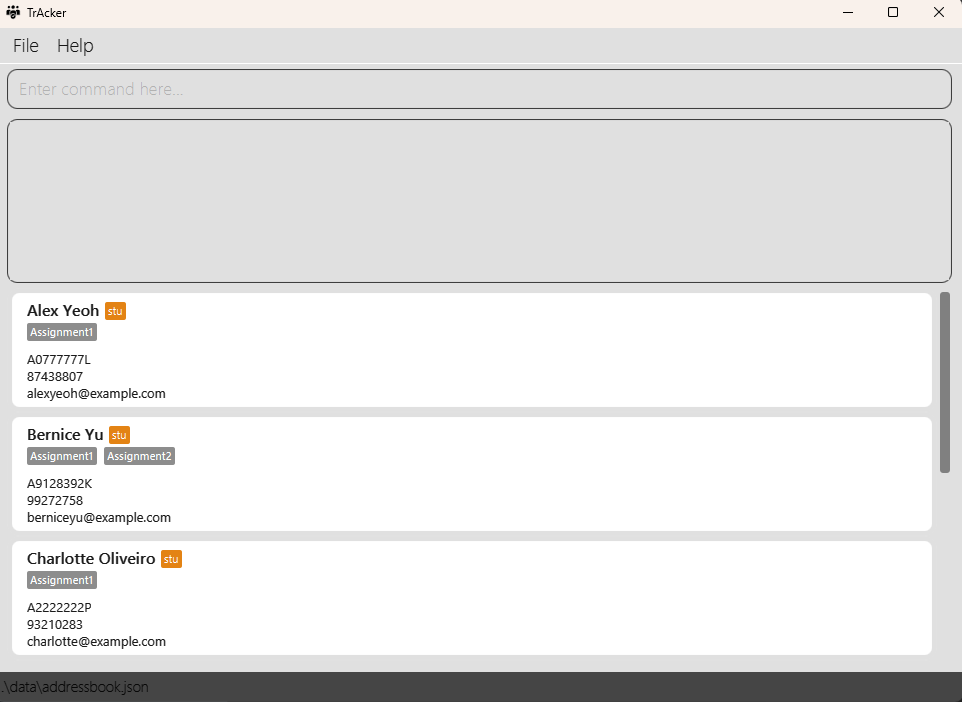
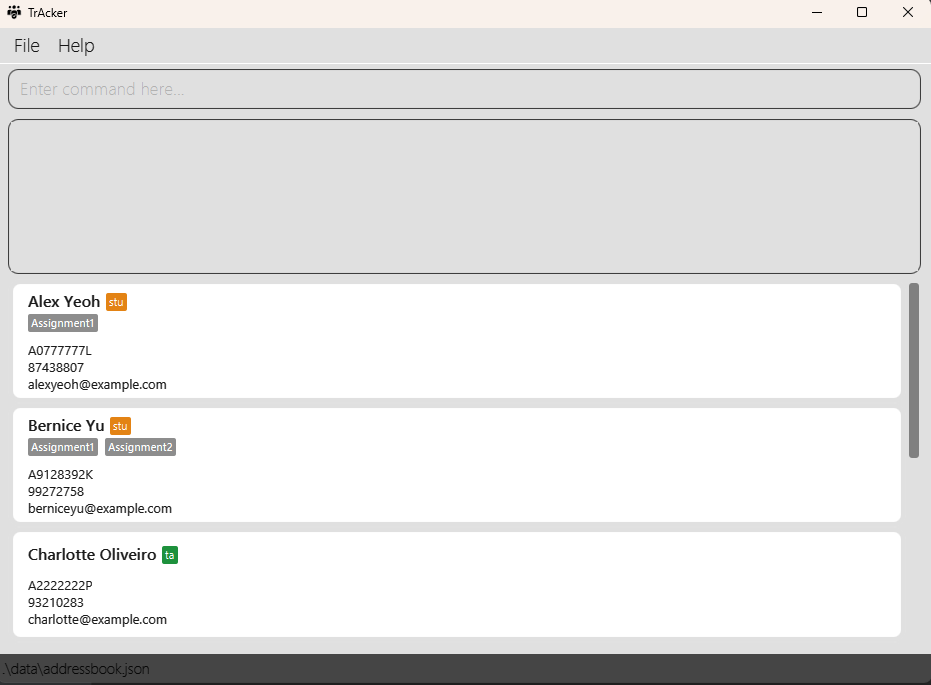
Update UG

diff --git a/docs/UserGuide.md b/docs/UserGuide.md
@@ -3,10 +3,10 @@ layout: page
 title: User Guide
 ---
 
-**TrAcker** is a **desktop app for CS Head Teaching Assistants (TAs) to manage the contact information of TAs and 
-students, optimized for use via a Command Line Interface** (CLI) while still having the benefits of a Graphical User 
-Interface (GUI). If you can type fast, TrAcker can get your contact management tasks done faster than traditional GUI 
-apps.
+**TrAcker** is a handy contact management app built for CS Head Teaching Assistants (TAs) in NUS.
+Optimized for use via a command line interface, you can manage student assignments, attendance,
+tutor availability and much more with just a few keystrokes!
+
 
 * Table of Contents
 {:toc}
@@ -17,30 +17,32 @@ apps.
 
 1. Ensure you have Java `11` or above installed in your Computer.
 
-1. Download the latest `TrAcker.jar` from [here](https://github.com/AY2324S2-CS2103T-T11-4/tp/releases).
+2. Download the latest `TrAcker.jar` from [here](https://github.com/AY2324S2-CS2103T-T11-4/tp/releases).
 
-1. Copy the file to the folder you want to use as the _home folder_ for your **TrAcker** app.
+3. Copy the file to the folder you want to use as the _home folder_ for your **TrAcker** app.
 
-1. Open a command terminal, `cd` into the folder you put the jar file in, and use the `java -jar TrAcker.jar` 
+4. Open a command terminal, `cd` into the folder you put the jar file in, and use the `java -jar TrAcker.jar` 
    command to 
    run the application.<br>
-   A GUI similar to the below should appear in a few seconds. Note how the app contains some sample data.<br>
+   The GUI with some sample data should appear in a few seconds: <br>
    ![Ui](images/Ui.png)
 
-1. Type the command in the command box and press Enter to execute it. e.g. typing **`help`** and pressing Enter will open the help window.<br>
+5. Type the command in the command box and press Enter to execute it.<br>
    Some example commands you can try:
-
    * `list` : Lists all contacts.
-
-   * `add n/John Doe p/98765432 e/johnd@example.com a/John street, block 123, #01-01` : Adds a contact named `John Doe` to the Address Book.
-
+   
+   * `add stu /n John Doe /i A0123456Y /p 91234567 /e johndoe@example.com` : Adds the Student `John Doe` to your contact list.
+   
+   * `add ta /n Jane Smith /i A0654321Y /p 97654321 /e janesmith@example.com` : Adds the TA `Jane Smith` to your contact list.
+   
    * `delete 3` : Deletes the 3rd contact shown in the current list.
 
    * `clear` : Deletes all contacts.
 
    * `exit` : Exits the app.
 
-1. Refer to the [Features](#features) below for details of each command.
+
+6. Refer to the [Features](#features) below for details of each command.
 
 --------------------------------------------------------------------------------------------------------------------
 
@@ -51,16 +53,13 @@ apps.
 **:information_source: Notes about the command format:**<br>
 
 * Words in `UPPER_CASE` are the parameters to be supplied by the user.<br>
-  e.g. in `add n/NAME`, `NAME` is a parameter which can be used as `add n/John Doe`.
+  e.g. in `add stu /n NAME`, `NAME` is a parameter which can be used as `add stu /n John Doe`.
 
 * Items in square brackets are optional.<br>
-  e.g `n/NAME [t/TAG]` can be used as `n/John Doe t/friend` or as `n/John Doe`.
-
-* Items with `…` after them can be used multiple times including zero times.<br>
-  e.g. `[t/TAG]…` can be used as ` ` (i.e. 0 times), `t/friend`, `t/friend t/family` etc.
+  e.g `/n NAME [/p PHONE]` can be used as `/n John Doe /p 91234567` or as `/n John Doe`.
 
 * Parameters can be in any order.<br>
-  e.g. if the command specifies `n/NAME p/PHONE_NUMBER`, `p/PHONE_NUMBER n/NAME` is also acceptable.
+  e.g. if the command specifies `/n NAME /i ID`, `/i ID /n NAME` is also acceptable.
 
 * Extraneous parameters for commands that do not take in parameters (such as `help`, `list`, `exit` and `clear`) will be ignored.<br>
   e.g. if the command specifies `help 123`, it will be interpreted as `help`.
@@ -76,20 +75,23 @@ Shows a message explaning how to access the help page.
 
 Format: `help`
 
+### Adding a Student or TA: `add stu`, `add ta`
 
-### Adding a person: `add`
+Adds a Student (TA) to the address book.
 
-Adds a person to the address book.
+Format:
+* To add a Student,<br>
+  `add stu /n NAME /i ID /p PHONE /e EMAIL`
 
-Format: `add n/NAME p/PHONE_NUMBER e/EMAIL a/ADDRESS [t/TAG]…`
-
+* To add a TA,<br>
+  `add ta /n NAME /i ID /p PHONE /e EMAIL]`
 <div markdown="span" class="alert alert-primary">:bulb: **Tip:**
-A person can have any number of tags (including 0)
+All persons are saved as either Students or TAs
 </div>
 
 Examples:
-* `add n/John Doe p/98765432 e/johnd@example.com a/John street, block 123, #01-01`
-* `add n/Betsy Crowe t/friend e/betsycrowe@example.com a/Newgate Prison p/1234567 t/criminal`
+* `add stu /n Alex Yeoh /i A0777777L /p 87438807 /e alexyeoh@example.com`
+* `add ta /n Charlotte Oliveiro A2222222P /p 93210283 /e charlotte@example.com`
 
 ### Listing all persons : `list`
 
@@ -101,18 +103,16 @@ Format: `list`
 
 Edits an existing person in the address book.
 
-Format: `edit INDEX [n/NAME] [p/PHONE] [e/EMAIL] [a/ADDRESS] [t/TAG]…`
+Format: `edit INDEX [/n NAME] [/p PHONE] [/e EMAIL]`
 
 * Edits the person at the specified `INDEX`. The index refers to the index number shown in the displayed person list. The index **must be a positive integer** 1, 2, 3, …
 * At least one of the optional fields must be provided.
 * Existing values will be updated to the input values.
-* When editing tags, the existing tags of the person will be removed i.e adding of tags is not cumulative.
-* You can remove all the person’s tags by typing `t/` without
-    specifying any tags after it.
+* A person's `ID` cannot be edited.
 
 Examples:
-*  `edit 1 p/91234567 e/johndoe@example.com` Edits the phone number and email address of the 1st person to be `91234567` and `johndoe@example.com` respectively.
-*  `edit 2 n/Betsy Crower t/` Edits the name of the 2nd person to be `Betsy Crower` and clears all existing tags.
+*  `edit 1 /p 91234567 /e johndoe@example.com` Edits the phone number and email address of the 1st person to be `91234567` and `johndoe@example.com` respectively.
+*  `edit 2 /n Betsy Crower` Edits the name of the 2nd person to be `Betsy Crower`.
 
 ### Locating persons by name: `find`
 
